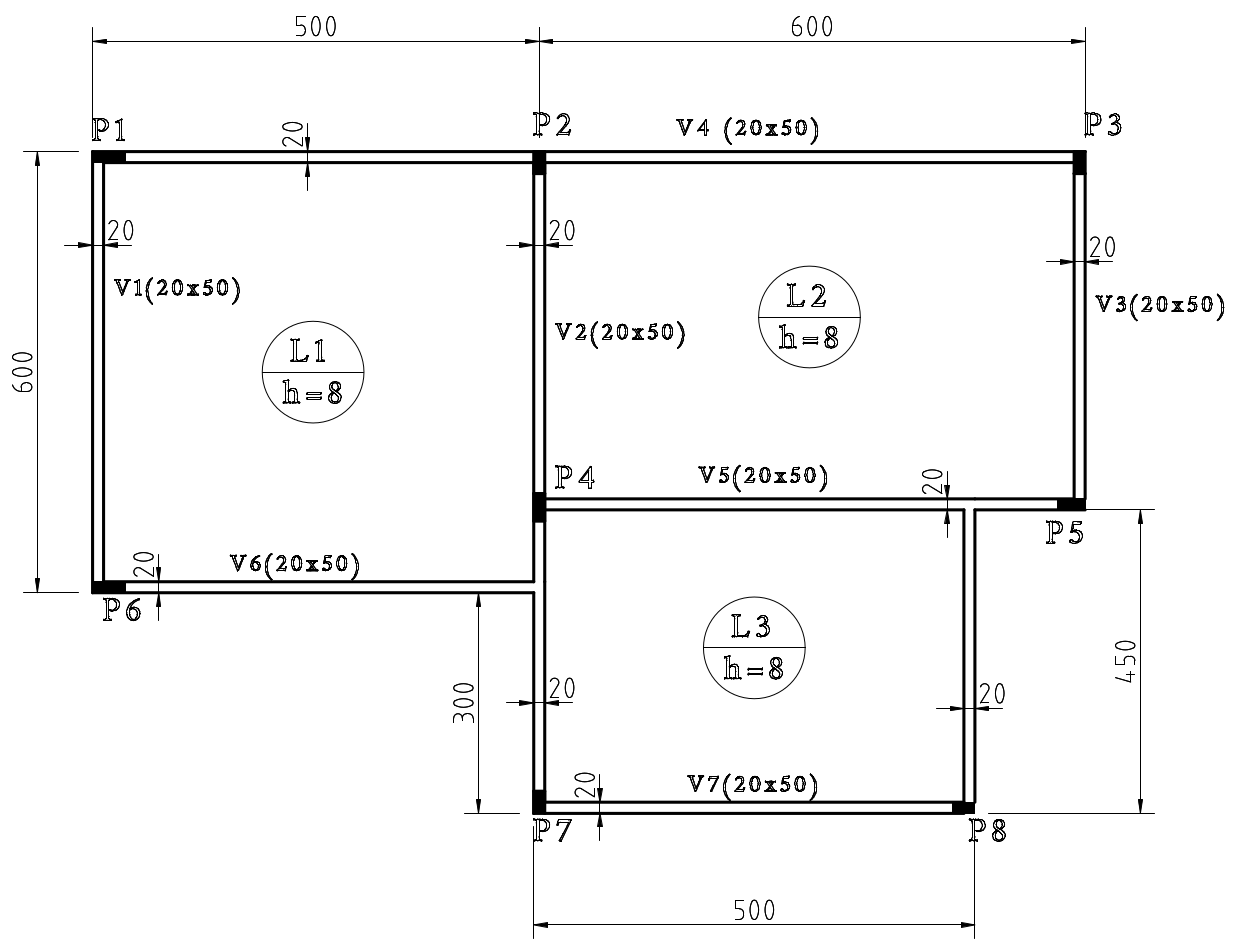
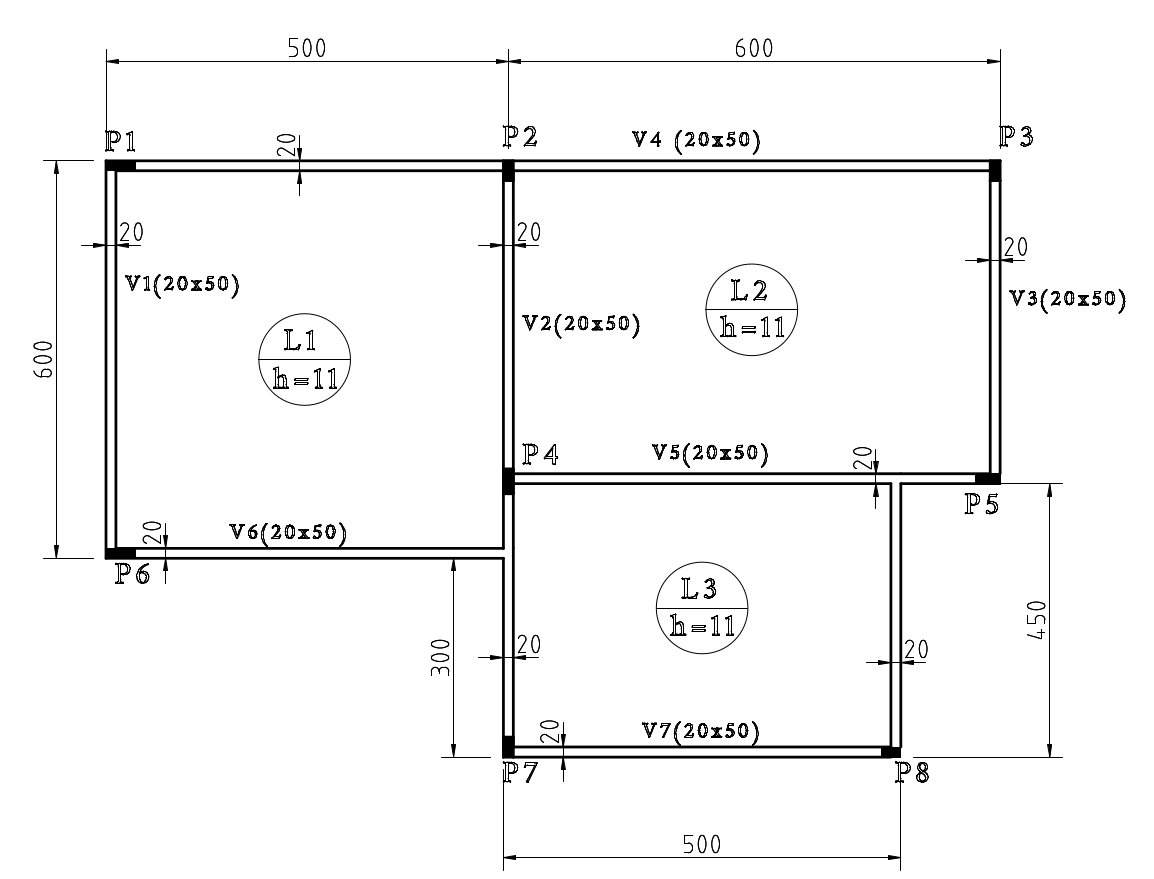
dimensionamento da laje L1

diff --git a/lajes.html b/lajes.html
@@ -50,7 +50,7 @@
           <h2>Exemplo</h2>
           <p>
             Dada a planta de formas de pavimento tipo de edificação mostrada na
-            figura, dimensione e detalhe as lajes L1 e L2. Dados: Concreto C20;
+            figura, dimensione e detalhe as lajes L1 e L2. Dados: Concreto C25;
             Aço CA-50; Diâmetro máximo característico do agregado = 19 mm;
             Classe de agressividade ambiental I. Tipo da edificação: Comercial
             de Call Center, com pé-direito efetivo de 310 cm. Revestimento de
@@ -61,7 +61,7 @@
           </p>
 
           <div class="imagem-container">
-            <img src="imagens/laje-1.png" alt="Exemplo - els" width="600" />
+            <img src="imagens/laje-1.png" alt="Exemplo - els" width="700" />
             <p class="legenda">Planta de formas do exemplo</p>
           </div>
         </div>
@@ -83,12 +83,12 @@
             Revestimento de teto em Argamassa de cal, cimento e areia de 3 cm:
             \(F_{g,rev} = 19 kN/m^3 \cdot 0{,}03 = 0{,}57 kN/m^2 \)
           </p>
-          <p>Pesos próprio: \(F_{g,pp} = 25 \cdot 0{,}08 = 2 kN/m^2 \)</p>
+          <p>Pesos próprio: \(F_{g,pp} = 25 \cdot 0{,}11 = 2{,}75 kN/m^2 \)</p>
 
           <h3>Combinação de ações no Estado Limite Último</h3>
 
-          \[F_k = 3 + 1{,}4 + 0{,}57 + 2 = 6{,}97 kN/m^2 \] \[F_d = 1{,}4 F_k =
-          1{,}4 \cdot 6{,}97 = 9{,}76 kN/m^2 \]
+          \[F_k = 3 + 1{,}4 + 0{,}57 + 2{,}75 = 7{,}72 kN/m^2 \] \[F_d = 1{,}4
+          F_k = 1{,}4 \cdot 7{,}72 = 10{,}81 kN/m^2 \]
 
           <h3>Laje L1</h3>
           \[l_x =512 \text{ cm} \] \[l_y =612 \text{ cm} \]
@@ -103,17 +103,109 @@
             20 mm. Considerando uma barra de 10 mm de diâmetro (hipotético)
             tem-se:
           </p>
-          \[ d' = 2 + 0{,}5 = 2{,}5 \text{ cm} \] \[ d = 8 - 2{,}5 = 5{,}5
+          \[ d' = 2 + 0{,}5 = 2{,}5 \text{ cm} \] \[ d = 11 - 2{,}5 = 8{,}5
           \text{ cm} \]
 
-          <p>Cálculo dos momentos fletores</p>
+          <h4>Cálculo dos momentos fletores</h4>
 
           \[M_d = \mu \frac{F_d \cdot l_x^2 }{100}\] \[M_{d,x} = 4{,}38 \frac{
-          9{,}76 \cdot 5{,}12^2}{100} = 11{,}21 \text{ } kNm = 1.121 \text{ }
-          kNcm \] \[M_{d,x'} = 9{,}80 \frac{ 9{,}76 \cdot 5{,}12^2}{100} =
-          25{,}07 \text{ } kNm = 2.507 \text{ } kNcm \] \[M_{d,y} = 2{,}52
-          \frac{ 9{,}76 \cdot 5{,}12^2}{100} = 6{,}45 \text{ } kNm = 645 \text{
-          } kNcm \] \[K_c = \frac{b_w d^2}{M_d} \]
+          10{,}81 \cdot 5{,}12^2}{100} = 12{,}41 \text{ } kNm/m = 1.241 \text{ }
+          kNcm/m \] \[M_{d,x'} = 9{,}80 \frac{ 10{,}81 \cdot 5{,}12^2}{100} =
+          27{,}77 \text{ } kNm/m = 2.777 \text{ } kNcm/m \] \[M_{d,y} = 2{,}52
+          \frac{ 10{,}81 \cdot 5{,}12^2}{100} = 7{,}14 \text{ } kNm/m = 714
+          \text{ } kNcm/m \]
+
+          <h4>Cálculo das armaduras da laje L1</h4>
+          \[K_c = \frac{b_w d^2}{M_d} \] \[ K_{c,x} = 100 \cdot 8{,}5^2/1.241 =
+          5{,}82 \text{ cm²/kN} \] \[ K_{c,x'} = 100 \cdot 8{,}5^2/2.777 =
+          2{,}60 \text{ cm²/kN} \] \[ K_{c,y} = 100 \cdot 8{,}5^2/714 = 10{,}11
+          \text{ cm²/kN} \]
+
+          <p>\[K_{s,x} =0{,}024 \]</p>
+          <p>\[K_{s,x'} =0{,}027 \]</p>
+          <p>\[K_{s,y} =0{,}024 \]</p>
+
+          <p>Importante observar o limite \(\beta_x \le 0{,}45\)</p>
+
+          <p>\[A_s = K_s \frac{M_d}{d}\]</p>
+
+          <p>\[A_{s,x} = 0{,}024 \frac{1241}{8{,}5} = 3{,}5 \text{ cm²/m} \]</p>
+          <p>
+            \[A_{s,x'} = 0{,}027 \frac{2777}{8{,}5} = 8{,}82 \text{ cm²/m} \]
+          </p>
+          <p>\[A_{s,x} = 0{,}024 \frac{714}{8{,}5} = 2{,}02 \text{ cm²/m} \]</p>
+        </div>
+
+        <div class="box">
+          <h3>Escolha das armaduras</h3>
+          <ul>
+            <li>6,3 mm para as armaduras positivas.</li>
+            <li>10 mm para as armaduras negativas.</li>
+          </ul>
+        </div>
+
+        <div class="box">
+          <h3>Disposições construtivas</h3>
+          <h4>Armaduras mínimas negativas</h4>
+          <p>
+            \[ A_{s,mín} = \rho_{min} A_c = 0{,}150\% \cdot 100 \cdot 11 =
+            1{,}65 \text{ cm²} \]
+          </p>
+
+          <h4>Armaduras mínimas positivas</h4>
+          <p>
+            \[ A_{s,mín} = 0{,}67\rho_{min} A_c = 0{,}67 \cdot 0{,}150\% \cdot
+            100 \cdot 11 = 1{,}11 \text{ cm²} \]
+          </p>
+
+          <h4>Espaçamento máximo</h4>
+          <p>
+            O espaçamento máximo transversal entre barras deve ser o menor valor
+            entre:
+          </p>
+          <ul>
+            <li>2h = 22 cm</li>
+            <li>20 cm</li>
+          </ul>
+
+          <p>Portanto:</p>
+          <p>\[s_{máx} = 20 \text{ cm}\]</p>
+
+          <h4>Espaçamento mínimo</h4>
+          <p>O espaçamento mínimo é o maior valor entre:</p>
+          <ul>
+            <li>2 cm</li>
+            <li>
+              \(\phi_l\) = 0,63 cm para as postivias ou 1 cm para as negativas
+            </li>
+            <li>\(1{,}2 d_{máx} = 2{,}28\) cm</li>
+
+            <p>Portanto</p>
+            <p>\[s_{mín} = 2{,}3\text{ cm} \]</p>
+          </ul>
+        </div>
+
+        <div class="box">
+          <h3>Comprimento das armaduras</h3>
+          <h4>Comprimento das armaduras posivitas</h4>
+          <p>
+            As armaduras positivas devem ser levadas até o eixo teórico dos
+            apoios e prologandas de, no mínimo, 4 cm.
+          </p>
+          <p>\[ l_{As,x} = 490 +4+4 = 498 \text{ cm} \]</p>
+          <p>\[ l_{As,y} = 580 +4+4 = 584 \text{ cm} \]</p>
+
+          <h4>Comprimento das armaduras negativas</h4>
+          <p>
+            O comprimento das armaduras negativas dependerá do tipo escolhido da
+            configuração (vide Bastos - Lajes de Concreto Armado).
+          </p>
+          <p>\[l_{As,x'}= 2 (0{,}25 l_x + l_b + l_{ganchos} ) \]</p>
+          <p>
+            Na equação anterior, \(l_x\) é o menor vão teórico, \(l_b\) é o
+            comprimento básico de ancoragem e \(l_{ganchos}\) é o comprimento
+            dos ganchos caso existam e zero caso contrário.
+          </p>
         </div>
 
         <div class="box">
